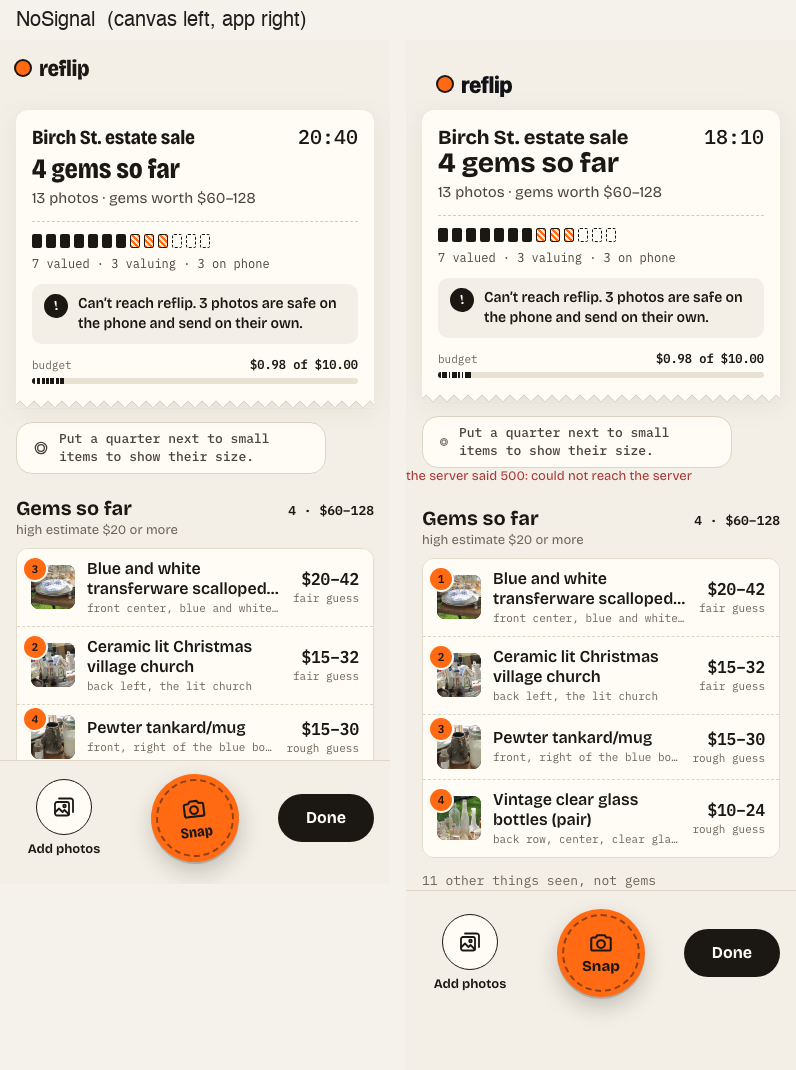
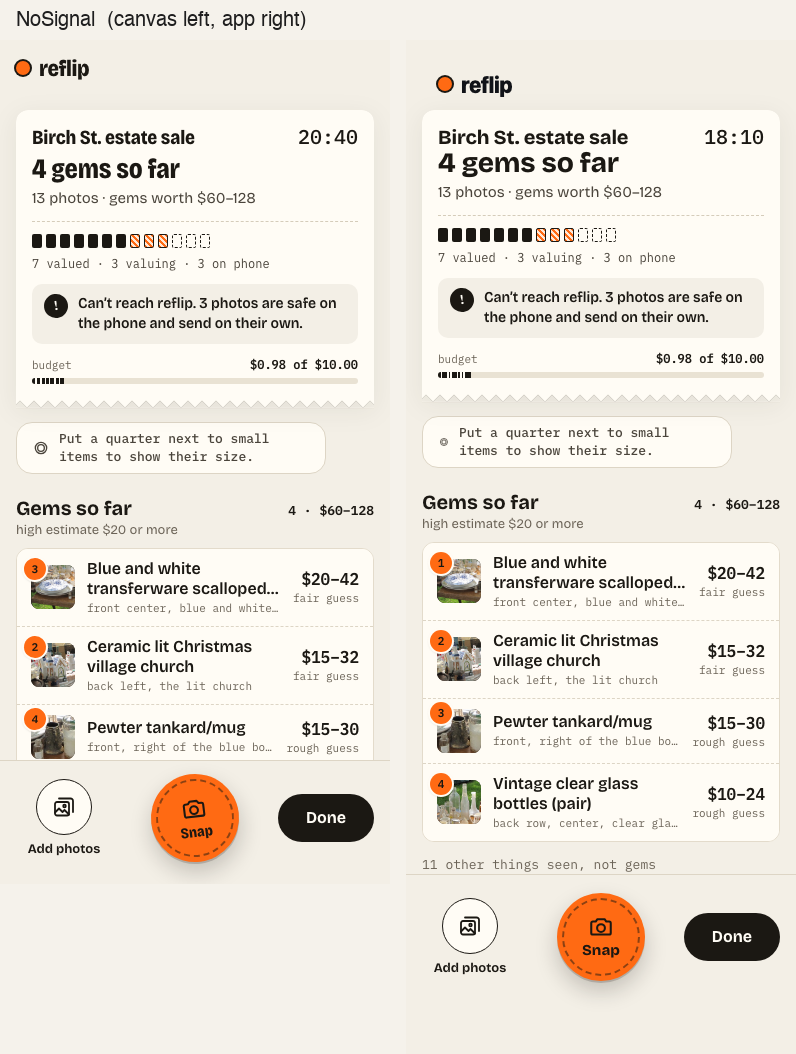
Scope the gem detail full-bleed to haul, hide the upload error while offline
The polish commit changed .scan-sheet-crop and .scan-ebay, which the Scan
sheet in ScanView.res also uses. The full-bleed margins now apply only
inside .haul-gem-detail, so Scan keeps its layout. The haul error line no
longer repeats an upload failure that the offline notice already shows.
Shots retaken.

diff --git a/src/web/scan.css b/src/web/scan.css
@@ -1168,14 +1168,9 @@ body:has(.scan-shell) {
 }
 
 .scan-sheet-crop {
-  /* Full-bleed: HaulLayout.cropOf assumes this box renders at exactly
-     358px (the card's outer width), so this cancels the 14px side
-     padding of the .haul-gem-detail parent it sits in (its only user,
-     confirmed by grep) rather than being inset like the surrounding
-     text rows. */
   position: relative;
-  margin: 4px -14px 0;
-  width: auto;
+  margin-top: 4px;
+  width: 100%;
   height: 184px;
   border-radius: 12px;
   overflow: hidden;
@@ -1308,12 +1303,7 @@ body:has(.scan-shell) {
 /* -- eBay block ------------------------------------------------------------------- */
 
 .scan-ebay {
-  /* Full-bleed like .scan-sheet-crop above: HaulLayout.barWidthPx assumes
-     this box's own 14px padding + 1px border is the only inset (matching
-     the canvas, EbayBlock.dc.html), so cancel the .haul-gem-detail
-     parent's 14px side padding here too (its only user, confirmed by
-     grep) instead of stacking a second inset on top of it. */
-  margin: 16px -14px 0;
+  margin-top: 16px;
   padding: 14px;
   border: 1px solid var(--scan-card-border);
   border-radius: var(--scan-radius);
@@ -1598,6 +1588,18 @@ body:has(.scan-shell) {
   padding: 0 14px 16px;
   overflow: hidden;
   animation: haul-gem-detail-open .25s ease-out;
+}
+
+/* Full-bleed inside a gem detail, as on the canvas. HaulLayout.cropOf
+   assumes a 358 px crop and HaulLayout.barWidthPx a 328 px eBay track, so
+   cancel the detail's 14 px side padding. Scan's sheet keeps its inset. */
+.haul-gem-detail .scan-sheet-crop {
+  margin: 4px -14px 0;
+  width: auto;
+}
+
+.haul-gem-detail .scan-ebay {
+  margin: 16px -14px 0;
 }
 
 /* A true grid-rows accordion needs the detail's children collapsed into one

diff --git a/docs/shots/haul-ui/click-path.md b/docs/shots/haul-ui/click-path.md
@@ -15,6 +15,6 @@ See scripts/haul-shots.mjs.
 | The same gem closes | Tapping an open row's own header closes it | ok — .haul-gem-detail count after close = 0 (expected 0) |
 | Sold link href (blocked) | a.scan-ebay-sold-btn points at ebay.com; the tap is blocked network-side | ok — href=https://www.ebay.com/sch/i.html?_nkw=vintage%20blue%20white%20transferware%20scalloped%20bowl%20plates&LH_Sold=1&LH_Complete=1, popup opened then blocked (chrome-error, per route.abort) |
 | Done (Finishing) | Tapping Done moves phase to Finishing; the dock bar replaces the controls | ok — Finishing board (.haul-bar present) |
-| Done auto-retry | A failed Done retries once on its own after ~5 s (AppState.retryDelayMs(1)) | ok — second POST /done arrived 5016 ms after the first (Failed board) |
+| Done auto-retry | A failed Done retries once on its own after ~5 s (AppState.retryDelayMs(1)) | ok — second POST /done arrived 5019 ms after the first (Failed board) |
 | The receipt | Once emailedAt is set, phase Finished shows the Haul Receipt section | ok — Done board (section[aria-label='Haul receipt']) |
 | Start a new haul | Tapping it on the receipt returns to the Ready screen (NoHaul) | ok — Done-after-new-haul shot (.haul-ready-start reappeared) |
